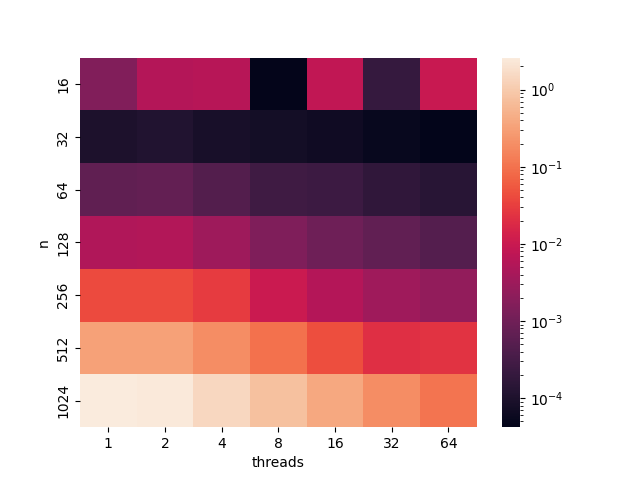
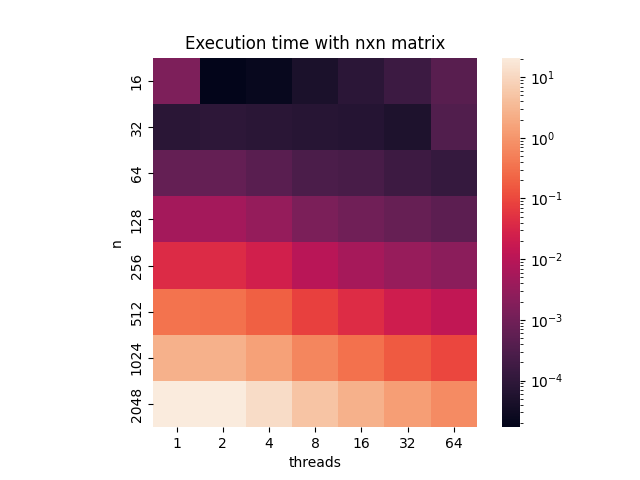
bugs everywhere!!!

diff --git a/tria_det.c b/tria_det.c
@@ -81,9 +81,9 @@ main()
     int threads[8] = {1, 2, 4, 8, 16, 32, 64, 128};
     double timer_omp, avg_time, maxval;
     printf("size\tn_thread\taverage_time\n");
-    for (int i = 0; i < 10; i++)
+    for (int i = 0; i < 8; i++)
     {
-        for (int j = 0; j < 7; j++)
+        for (int j = 0; j < 8; j++)
         {
             avg_time = 0.0;
             maxval = 100000.0 / n[i] / n[i] / n[i];

diff --git a/create_graphs.py b/create_graphs.py
@@ -6,5 +6,7 @@ from matplotlib.colors import LogNorm
 if __name__ == '__main__':
     data = pd.read_csv('data.csv', sep='\t')
     data = data.pivot("n", "threads", "time")
-    ax = sns.heatmap(data, norm=LogNorm())
+    ax = sns.heatmap(data, norm=LogNorm(), square=True)
+    ax.set_title('Execution time with nxn matrix')
+
     plt.savefig('heatmap.png')
